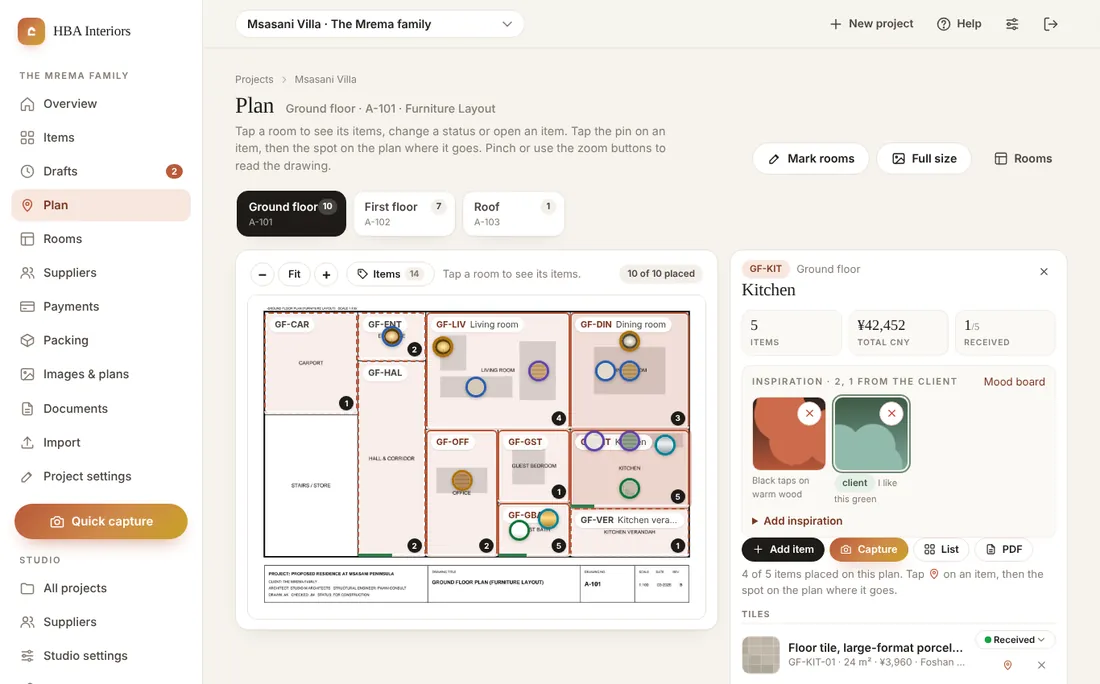
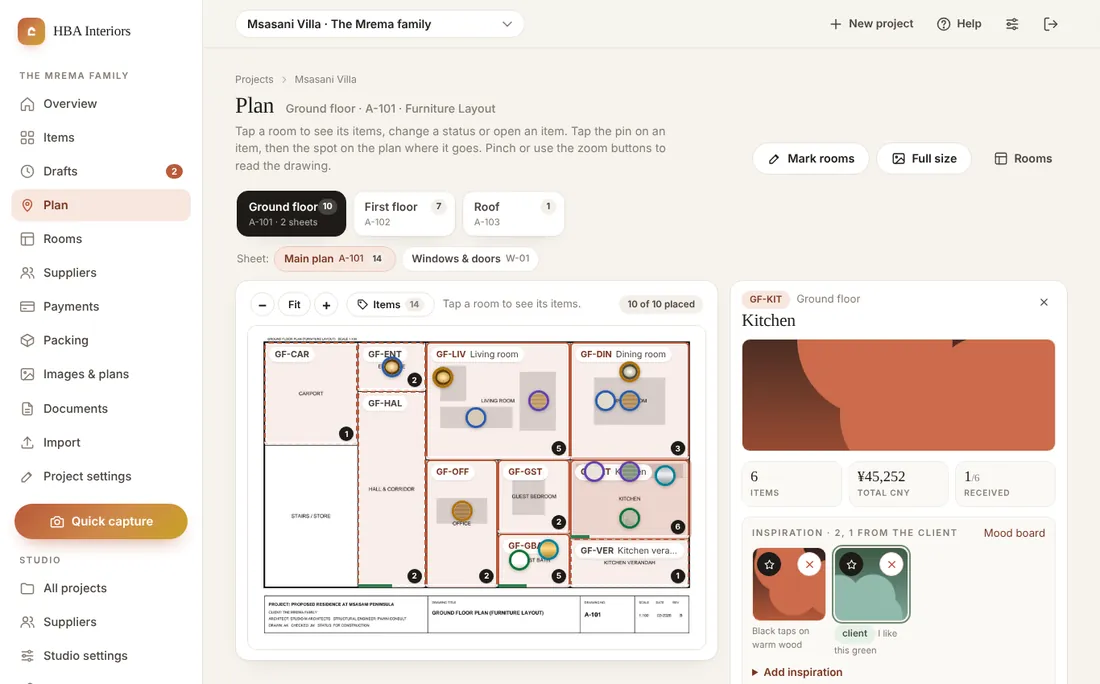
Room covers: a starred inspiration picture (or the newest) stands for each room
A room's inspiration pictures now give it a cover: the one starred as the
cover (MoodTag.is_cover, a column added by db.COLUMN_MIGRATIONS), else the
newest picture the designer added, else the client's newest
(services.room_cover / room_covers). It shows as a thumbnail on the room's
card on the Rooms page and as a strip when the card is open, as a banner
at the top of the room panel on the plan (the client's panel too) and as a
thumbnail in the plan's room list. The star sits top-left on every picture
of a room's inspiration strip and of the mood board; pressing it on the
cover lets the newest picture stand in again. POST
/p/<id>/images/<image_id>/cover toggles it and clears the room's other
stars; moving a picture to another room or deleting its room clears it; a
whole-house picture is never a room's cover. The star never reaches the
client's link.

Help: the Rooms, Images and Plan tips and the Rooms section of the guide;
four help pictures regenerated (rooms, plan-browse, phone-plan,
client-plan). README and CLAUDE.md updated; the suite covers the fallback,
the star, the pages, the client's view, moving and the whole-house case.

Claude-Session: https://claude.ai/code/session_014dEEg4ZJoqKU3XFXeCpon9

diff --git a/ffe/app/templates/help.html b/ffe/app/templates/help.html
@@ -293,7 +293,7 @@
     <li><b>Floor</b>: pick it from the list, so the plan and the rooms find each other. The floor list above is where floors are added, renamed, reordered or merged.</li>
     <li><b>Floor area</b> and <b>wall tile area</b> in m² are optional and help you work out tile quantities. <b>Notes</b> are for the installers (finish level, access).</li>
     <li>Open an entry to edit it: change the code, name, floor, kind or order and press <b>Save</b>. From there: <b>Items</b>, <b>Checklist PDF</b>, <b>Labels</b>, <b>On the plan</b>.</li>
-    <li><b>Inspiration.</b> Each entry carries a strip of mood-board pictures for that room: what the client likes, in their words. Add yours with a photo or a web link and a caption; the client adds theirs through their link (marked "client"). The same strip shows on the room's panel on the plan and on its item list, so the taste sits next to what is being bought. The Images &amp; plans page lists them under the mood board, whole house first, then room by room, and a picture can be moved to another room there.</li>
+    <li><b>Inspiration.</b> Each entry carries a strip of mood-board pictures for that room: what the client likes, in their words. Add yours with a photo or a web link and a caption; the client adds theirs through their link (marked "client"). The same strip shows on the room's panel on the plan and on its item list, so the taste sits next to what is being bought. The Images &amp; plans page lists them under the mood board, whole house first, then room by room, and a picture can be moved to another room there. A <b>star</b> on one of a room's pictures makes it the room's <b>cover</b>: a thumbnail on the room's card here and a strip when the card is open, a banner at the top of its panel on the plan and a thumbnail in the plan's room list, for you and for the client. Without a star the newest picture stands in, yours before the client's; press the star again and the newest stands in once more.</li>
     <li><b>Deleting</b> an entry keeps its items and boxes; they lose their room and show under "Not in a room or area" until you file them again. Its inspiration pictures stay, as whole-house ones.</li>
   </ul>
   {{ shot('rooms-entry', 'An entry opened on the Rooms page: once it is marked on the plan, it shows zoomed in with its item dots, above its details and buttons.') }}

diff --git a/ffe/app/templates/plan/_inspiration.html b/ffe/app/templates/plan/_inspiration.html
@@ -11,8 +11,9 @@
   {% if moods %}
   <div class="gallery insp-gallery">
     {% for im in moods %}
-    <div class="g{{ ' client' if im.by_client }}">
+    <div class="g{{ ' client' if im.by_client }}{{ ' cover' if im.is_cover }}">
       <a href="/media/{{ im.file_key }}" target="_blank" title="Open full size"><img src="/media/{{ im.file_key }}" alt="{{ im.caption }}" loading="lazy"></a>
+      {% if not ro and room %}<form method="post" action="/p/{{ p.id }}/images/{{ im.id }}/cover" class="star"><input type="hidden" name="next" value="{{ here }}"><button class="btn sm icon{{ ' on' if im.is_cover }}" title="{{ 'The cover of this ' ~ ('area' if room.is_area else 'room') ~ '. Press again and the newest picture stands in.' if im.is_cover else 'Use as the cover of this ' ~ ('area' if room.is_area else 'room') }}" aria-label="{{ 'The cover' if im.is_cover else 'Use as cover' }}"><svg class="ic"><use href="#i-star"/></svg></button></form>{% endif %}
       {% if not ro %}<form method="post" action="/p/{{ p.id }}/images/{{ im.id }}/delete" data-confirm="Delete this picture? It comes off the {{ room.name if room else 'house' }} and the PDFs."><input type="hidden" name="next" value="{{ here }}"><button class="btn sm icon danger" title="Delete picture" aria-label="Delete picture"><svg class="ic"><use href="#i-x"/></svg></button></form>
       {% elif im.by_client %}<form method="post" action="/c/{{ token }}/inspiration/{{ im.id }}/delete" data-confirm="Remove your picture? The designer will no longer see it."><input type="hidden" name="room_id" value="{{ room.id if room else '' }}"><button class="btn sm icon danger" title="Remove my picture" aria-label="Remove my picture"><svg class="ic"><use href="#i-x"/></svg></button></form>{% endif %}
       <div class="cap">{% if im.by_client %}<span class="pill sage">{{ 'you' if ro else 'client' }}</span> {% endif %}{{ im.caption }}</div>

diff --git a/ffe/app/templates/projects/images.html b/ffe/app/templates/projects/images.html
@@ -121,7 +121,8 @@
   <div class="sub-title mt"><span>{{ grp_room.label if grp_room else 'Whole house' }}</span><span class="muted small">{{ grp|length }} picture{{ 's' if grp|length != 1 }}{% if grp|selectattr('by_client')|list %} · {{ grp|selectattr('by_client')|list|length }} from the client{% endif %}</span></div>
   <div class="gallery">
   {% for im in grp %}
-    <div class="g{{ ' client' if im.by_client }}" id="img-{{ im.id }}"><img src="/media/{{ im.file_key }}" alt="{{ im.caption }}" data-full="/media/{{ im.file_key }}" data-caption="{{ im.caption or (grp_room.label if grp_room else 'Whole house') }}">
+    <div class="g{{ ' client' if im.by_client }}{{ ' cover' if im.is_cover }}" id="img-{{ im.id }}"><img src="/media/{{ im.file_key }}" alt="{{ im.caption }}" data-full="/media/{{ im.file_key }}" data-caption="{{ im.caption or (grp_room.label if grp_room else 'Whole house') }}">
+      {% if grp_room %}<form method="post" action="/p/{{ p.id }}/images/{{ im.id }}/cover" class="star"><input type="hidden" name="next" value="/p/{{ p.id }}/images#img-{{ im.id }}"><button class="btn sm icon{{ ' on' if im.is_cover }}" title="{{ 'The cover of ' ~ grp_room.name ~ '. Press again and its newest picture stands in.' if im.is_cover else 'Use as the cover of ' ~ grp_room.name }}" aria-label="{{ 'The cover' if im.is_cover else 'Use as cover' }}"><svg class="ic"><use href="#i-star"/></svg></button></form>{% endif %}
       <form method="post" action="/p/{{ p.id }}/images/{{ im.id }}/delete" data-confirm="Delete this picture? It comes off the project and its PDFs."><button class="btn sm icon danger" title="Delete picture" aria-label="Delete picture"><svg class="ic"><use href="#i-x"/></svg></button></form>
       <form method="post" action="/p/{{ p.id }}/images/{{ im.id }}" class="tag">
         {% if im.by_client %}<span class="pill sage">from the client</span>{% endif %}

diff --git a/ffe/app/templates/rooms.html b/ffe/app/templates/rooms.html
@@ -80,13 +80,15 @@
 {% if r.is_area and (loop.first or not loop.previtem.is_area) %}<div class="sub-title"><span>Areas</span><span class="muted small">zones with a code, items and boxes, but not rooms</span></div>{% endif %}
 {% set st = stats.get(r.id) %}
 <details class="card tight{{ ' area' if r.is_area }}" id="room-{{ r.id }}">
+  {% set cv = covers.get(r.id) if covers is defined else none %}
   <summary>
-    {{ room_pill(r) }}
+    {{ room_pill(r) }}{% if cv %}<img class="rthumb" src="/media/{{ cv.file_key }}" alt="" loading="lazy">{% endif %}
     <span class="b">{{ r.name }}</span>{% if r.is_area %}<span class="muted small">Area</span>{% endif %}{% if r.floor %}<span class="muted small">{{ r.floor }}</span>{% endif %}
     <span class="sp"></span>
     {% set n = st.count if st else 0 %}<span class="pill">{{ n }} item{{ 's' if n != 1 }}<span class="hide-m">· ¥{{ (st.total if st else 0)|money }}{% if st and st.received %} · {{ st.received }} recv{% endif %}</span></span>
   </summary>
   <div class="small muted hide-d mt">¥{{ (st.total if st else 0)|money }} ordered{% if st and st.received %} · {{ st.received }} received{% endif %}</div>
+  {% if cv %}<div class="rcover mt"><img src="/media/{{ cv.file_key }}" alt="{{ cv.caption }}" data-full="/media/{{ cv.file_key }}" data-caption="{{ r.name }}{% if cv.caption %} · {{ cv.caption }}{% endif %}" loading="lazy"></div>{% endif %}
   {% set zoom = zooms.get(r.id) %}{% if zoom %}<div class="mt">{% set room = r %}{% set cls = 'sm' %}{% include "plan/_zoom.html" %}</div>{% endif %}
   <div class="mt">{% with room = r, moods = moods_by_room.get(r.id, []), here = '/p/' ~ p.id ~ '/rooms#room-' ~ r.id %}{% include "plan/_inspiration.html" %}{% endwith %}</div>
   <form method="post" action="/p/{{ p.id }}/rooms/{{ r.id }}" class="mt">

diff --git a/ffe/app/static/app.css b/ffe/app/static/app.css
@@ -432,6 +432,17 @@ details summary{cursor:pointer;color:var(--ink);font-weight:600;margin:0}
 .insp .insp-gallery .g.client img{outline:2px solid var(--sage);outline-offset:1px}
 .insp details.insp-add{margin-top:8px}.insp details.insp-add summary{font-size:.84rem;font-weight:600;cursor:pointer;color:var(--accent-ink)}
 .gallery .g.client img{outline:2px solid var(--sage);outline-offset:1px}
+/* room covers: the inspiration picture starred for a room, else its newest (services.room_cover): a thumbnail on the room's
+   card and in the plan's room list, a strip in the open card, a banner at the top of the room panel; the star sets it */
+.rthumb{width:40px;height:40px;border-radius:10px;object-fit:cover;flex:none;border:1px solid var(--line);background:var(--surface-2)}
+.rthumb.sm{width:28px;height:28px;border-radius:8px}
+.rcover img{display:block;width:100%;height:150px;object-fit:cover;border-radius:var(--r-sm);border:1px solid var(--line)}
+.ph-cover{margin-top:10px}.ph-cover img{display:block;width:100%;height:140px;object-fit:cover;border-radius:var(--r-sm);border:1px solid var(--line)}
+.gallery form.star{left:6px;right:auto}
+.gallery form.star .btn.on{color:#fff;background:var(--gold);border-color:var(--gold)}
+.gallery form.star .btn.on .ic{fill:currentColor}
+.gallery .g.cover img{outline:2px solid var(--gold);outline-offset:1px}
+@media(max-width:700px){.rcover img{height:120px}.ph-cover img{height:110px}}
 .gallery .g form.tag .btn{justify-self:start}
 .gallery.plans .g .cap.role{color:var(--ink-2);display:flex;align-items:center;gap:6px;flex-wrap:wrap;min-height:22px}
 /* Images & plans: a plan filed as its own floor before layers existed ("Ground Electrical") gets a one-press fix */

diff --git a/ffe/app/templates/plan/_intro.html b/ffe/app/templates/plan/_intro.html
@@ -21,7 +21,7 @@
   <div class="eyebrow">{{ (plan.floor|floor_title) if (plan.floor and floor_rooms) else 'On this plan' }}</div>
   <div class="plan-dir">
     {% for r in dir_rooms|rejectattr('is_area')|list + dir_rooms|selectattr('is_area')|list %}{% set st = stats.get(r.id) %}
-    <a href="{{ base }}?plan={{ plan.id }}&amp;room={{ r.id }}{{ anchor }}" data-room="{{ r.id }}"{% if r.id not in placed %} class="unplaced"{% endif %}><span class="pill {{ 'area' if r.is_area else 'accent' }}">{{ r.code }}</span><span class="nm">{{ r.name }}{% if r.is_area %} <span class="muted small">· area</span>{% endif %}{% if r.id not in placed and not ro and not ref %} <span class="muted small">· not placed</span>{% endif %}</span><span class="n">{{ st.count if st else 0 }}</span></a>
+    <a href="{{ base }}?plan={{ plan.id }}&amp;room={{ r.id }}{{ anchor }}" data-room="{{ r.id }}"{% if r.id not in placed %} class="unplaced"{% endif %}>{% set cv = covers.get(r.id) if covers is defined else none %}{% if cv %}<img class="rthumb sm" src="/media/{{ cv.file_key }}" alt="" loading="lazy">{% endif %}<span class="pill {{ 'area' if r.is_area else 'accent' }}">{{ r.code }}</span><span class="nm">{{ r.name }}{% if r.is_area %} <span class="muted small">· area</span>{% endif %}{% if r.id not in placed and not ro and not ref %} <span class="muted small">· not placed</span>{% endif %}</span><span class="n">{{ st.count if st else 0 }}</span></a>
     {% endfor %}
   </div>
   {% endif %}

diff --git a/ffe/app/templates/base.html b/ffe/app/templates/base.html
@@ -33,6 +33,7 @@
   <symbol id="i-link" viewBox="0 0 24 24"><path d="M10 14a5 5 0 0 0 7 0l3-3a5 5 0 0 0-7-7l-1 1"/><path d="M14 10a5 5 0 0 0-7 0l-3 3a5 5 0 0 0 7 7l1-1"/></symbol>
   <symbol id="i-trash" viewBox="0 0 24 24"><path d="M4 7h16"/><path d="M10 11v6"/><path d="M14 11v6"/><path d="M6 7l1 13h10l1-13"/><path d="M9 7V4h6v3"/></symbol>
   <symbol id="i-check" viewBox="0 0 24 24"><path d="M5 13l4 4L19 7"/></symbol>
+  <symbol id="i-star" viewBox="0 0 24 24"><path d="M12 3.4l2.7 5.6 6.1.9-4.4 4.3 1 6.1L12 17.4l-5.4 2.9 1-6.1-4.4-4.3 6.1-.9z"/></symbol>
   <symbol id="i-x" viewBox="0 0 24 24"><path d="M6 6l12 12"/><path d="M18 6L6 18"/></symbol>
   <symbol id="i-edit" viewBox="0 0 24 24"><path d="M4 20h4l10-10-4-4L4 16z"/><path d="M13 7l4 4"/></symbol>
   <symbol id="i-clock" viewBox="0 0 24 24"><circle cx="12" cy="12" r="9"/><path d="M12 7v5l3 2"/></symbol>

diff --git a/ffe/app/templates/plan/_room.html b/ffe/app/templates/plan/_room.html
@@ -12,6 +12,7 @@
     </div>
     <a class="btn ghost sm icon close" href="{{ base }}{% if plan %}?plan={{ plan.id }}{% endif %}{{ anchor }}" aria-label="Close" title="Close"><svg class="ic"><use href="#i-x"/></svg></a>
   </div>
+  {% if cover is defined and cover %}<div class="ph-cover"><img src="/media/{{ cover.file_key }}" alt="{{ cover.caption }}" data-full="/media/{{ cover.file_key }}" data-caption="{{ room.name }}{% if cover.caption %} · {{ cover.caption }}{% endif %}"></div>{% endif %}
   <div class="ph-stats">
     <div><div class="v">{{ n }}</div><div class="l">Item{{ 's' if n != 1 }}</div></div>
     {% if ro %}<div><div class="v">${{ ((st.total if st else 0) / usd)|money }}</div><div class="l">Total USD</div></div>

diff --git a/ffe/app/help_tips.py b/ffe/app/help_tips.py
@@ -44,7 +44,7 @@ TIPS = {
         what="The places of the house, each with a code. Codes go on every item, box and label, so a delivery lands where it will be installed.",
         steps=["The <b>Floors</b> card at the top is the list every Floor dropdown offers. <b>Add floor</b> for a new one (a floor of the house, or a separate area such as the staff quarters); rename, reorder with the arrows, <b>Merge into</b> another floor (everything on it moves, the name goes), or delete an empty one.",
                "Type a <b>code</b> (GF-KIT), a <b>name</b> (Kitchen) and pick the <b>floor</b> (or <b>+ New floor…</b>). Leave <b>Kind</b> on Auto or pick Room / Area. Press <b>Add</b>.",
-               "Open an entry to edit it, print its <b>Checklist PDF</b> or <b>Labels</b>, or jump to it on the plan. Its <b>Inspiration</b> strip holds the pictures of what the client likes for that room; add yours with a photo or a web link.",
+               "Open an entry to edit it, print its <b>Checklist PDF</b> or <b>Labels</b>, or jump to it on the plan. Its <b>Inspiration</b> strip holds the pictures of what the client likes for that room; add yours with a photo or a web link. Press the <b>star</b> on one of them to make it the room's <b>cover</b>: the picture on the card here, at the top of the room's panel on the plan and in the plan's room list. Without a star the newest picture stands in.",
                "After an Excel import, press <b>Sort rooms &amp; areas by name</b> once: entrance, corridors, stairs, balconies and the carport become areas."],
         tips=["A room is a space you furnish; an area is a zone that still gets items. Both work the same way; they are only listed and counted apart.",
               "A plan and its rooms find each other through the floor: pick the same one from the list on both.",
@@ -56,7 +56,7 @@ TIPS = {
                "For a PDF you then <b>pick the pages</b>: the plan pages arrive ticked with floor, sheet and what they show filled in from the title block.",
                "Give every plan its <b>floor</b> and what it <b>shows</b>: <b>Main plan</b> for the general floor plan of the floor; Furniture layout, Electrical, Plumbing, Ceiling or Flooring for the other plans of that floor; <b>Windows &amp; doors</b> for a reference sheet of drawings (the list is edited under <b>Studio settings</b>). Press <b>Save</b> on it. Then open the plan and <b>mark rooms</b> on the main plan.",
                "Under each plan the page says what it is: <b>Main plan</b> of its floor or a <b>Layer</b> of it. A plan from before layers that was filed as its own floor (\"Ground Electrical\") gets a yellow note: one press makes it a layer of that floor.",
-               "<b>Add images</b> uploads the cover and the mood board; a web link works too. A mood-board picture <b>for one room</b> is that room's inspiration: it shows on the room's panel, the Rooms page, its item list and the client's link. The mood board lists the whole house first, then each room; a picture can be moved to another room from there."],
+               "<b>Add images</b> uploads the cover and the mood board; a web link works too. A mood-board picture <b>for one room</b> is that room's inspiration: it shows on the room's panel, the Rooms page, its item list and the client's link. The mood board lists the whole house first, then each room; a picture can be moved to another room from there. The <b>star</b> on a room's picture makes it that room's cover (the Rooms page, the room panel, the plan's room list)."],
         tips=["Drawings are a reference only: rooms and items are never created from them.",
               "Floor plans keep more pixels than photos so the room names stay readable. Tap any picture here to open it full size, with zoom."]),
     "pdf_pages": dict(
@@ -71,7 +71,7 @@ TIPS = {
     "plan": dict(
         title="The plan", anchor="plan",
         what="Browse and update the house room by room, straight on the drawing.",
-        steps=["<b>Tap a room</b>: its items come up beside the plan (in a sheet at the bottom on a phone), under its <b>Inspiration</b> strip: the pictures of what the client likes for that room, yours and theirs, with <b>Add inspiration</b> for a photo or a web link.",
+        steps=["<b>Tap a room</b>: its items come up beside the plan (in a sheet at the bottom on a phone), under its <b>Inspiration</b> strip: the pictures of what the client likes for that room, yours and theirs, with <b>Add inspiration</b> for a photo or a web link. The room's <b>cover</b> (the starred picture, else the newest) sits at the top of the panel.",
                "Change a <b>status</b> there, press <b>Add item</b> or <b>Capture</b> for that room, or open an item.",
                "To mark where an item goes, tap the <b>pin</b> on the item, then the spot on the drawing. Drag a dot to move it.",
                "Switch floors with the tabs: one per floor of the list on the Rooms page, in that order. A floor with no plan yet has a dashed tab that lists its rooms and areas, with a button to add its plan. Zoom with <b>−</b> / <b>Fit</b> / <b>+</b> or pinch.",

diff --git a/ffe/tests/test_flow.py b/ffe/tests/test_flow.py
@@ -1275,6 +1275,24 @@ with TestClient(app) as c:
     h=c2.get(f"/c/{itok}/plan/room/{kit}").text; assert "Like this green" in h and ">you</span>" in h and f'action="/c/{itok}/inspiration/{cpid}/delete"' in h and f'/images/{kpic}/delete' not in h and "Black taps" in h
     h=c.get(f"/p/{pi}/plan/room/{kit}").text; assert "Like this green" in h and ">client</span>" in h and "1 from the client" in h
     assert "1 inspiration picture" in c.get(f"/p/{pi}").text and "1 from the client" in c.get(f"/p/{pi}/images").text
+    # room covers: the designer's newest picture stands in, the star picks one; it shows on the card, in the panel (the client's too) and rings the picture
+    from app.services import room_cover as _rc
+    from app.models import Room as _Rm
+    db=SessionLocal(); pr=db.get(_P,int(pi)); assert _rc(pr,db.get(_Rm,kit)).id==kpic and _rc(pr,db.get(_Rm,liv)) is None; db.close()  # the designer's, although the client's is newer
+    h=c.get(f"/p/{pi}/rooms").text; assert 'class="rthumb" src="/media/' in h and 'class="rcover mt"' in h and f'action="/p/{pi}/images/{kpic}/cover"' in h and f'action="/p/{pi}/images/{cpid}/cover"' in h
+    r=c.post(f"/p/{pi}/images/{cpid}/cover", data={"next":f"/p/{pi}/rooms#room-{kit}"}, follow_redirects=False); assert r.status_code==303 and r.headers["location"]==f"/p/{pi}/rooms#room-{kit}"
+    db=SessionLocal(); pr=db.get(_P,int(pi)); cv=_rc(pr,db.get(_Rm,kit)); assert cv.id==cpid and cv.is_cover and not db.get(ProjectImage,kpic).is_cover; ck=cv.file_key; db.close()
+    h=c.get(f"/p/{pi}/plan/room/{kit}").text; assert f'<div class="ph-cover"><img src="/media/{ck}"' in h and 'class="btn sm icon on"' in h
+    h=c2.get(f"/c/{itok}/plan/room/{kit}").text; assert f'<div class="ph-cover"><img src="/media/{ck}"' in h and "/cover\"" not in h  # the client sees the cover, never the star
+    h=c.get(f"/p/{pi}/images").text; assert 'class="g client cover"' in h and f'action="/p/{pi}/images/{cpid}/cover"' in h
+    c.post(f"/p/{pi}/images/{cpid}/cover", data={"next":""}, follow_redirects=False); db=SessionLocal(); pr=db.get(_P,int(pi)); assert not db.get(ProjectImage,cpid).is_cover and _rc(pr,db.get(_Rm,kit)).id==kpic; db.close()  # the star again: the newest stands in
+    c.post(f"/p/{pi}/images/{kpic}/cover", data={"next":""}, follow_redirects=False)
+    c.post(f"/p/{pi}/images/{kpic}", data={"caption":"Black taps","room_id":str(liv)}, follow_redirects=False); db=SessionLocal(); assert not db.get(ProjectImage,kpic).is_cover; db.close()  # moved to another room: no longer the kitchen's cover
+    c.post(f"/p/{pi}/images/{kpic}", data={"caption":"Black taps","room_id":str(kit)}, follow_redirects=False)
+    db=SessionLocal(); wh=next(im.id for im in db.get(_P,int(pi)).images if im.kind=="mood" and im.room_id is None); db.close()
+    r=c.post(f"/p/{pi}/images/{wh}/cover", data={"next":""}, follow_redirects=False); db=SessionLocal(); assert r.status_code==303 and not db.get(ProjectImage,wh).is_cover; db.close()  # a whole-house picture is never a room's cover
+    assert c.post(f"/p/{pi}/images/999999/cover", data={"next":""}, follow_redirects=False).status_code==404
+    print("room covers ok")
     # nothing chosen, a bad link, the cap per room, someone else's picture, a wrong token
     r=c2.post(f"/c/{itok}/inspiration", data={"room_id":str(kit)}, follow_redirects=False); assert "err=" in r.headers["location"]
     r=c2.post(f"/c/{itok}/inspiration", data={"room_id":str(kit),"url":"https://shop.example/empty"}, follow_redirects=False); assert "err=" in r.headers["location"]

diff --git a/ffe/app/routers/projects.py b/ffe/app/routers/projects.py
@@ -5,7 +5,7 @@ from sqlalchemy.orm import Session
 from ..db import get_db
 from ..models import Project, ProjectImage, Room, Item, DrawingSet, PlanTag, DrawingPage
 from ..common import render, redirect, require_login, get_project, get_settings, ffloat, fint, content_disposition, safe_next
-from ..services import summary, mood_groups, client_moods
+from ..services import summary, mood_groups, client_moods, moods_for
 from .. import storage, webimage, drawings, config, layers
 from urllib.parse import quote
 from ..models import token as new_token
@@ -335,9 +335,30 @@ def edit_image(image_id: int, p: Project = Depends(get_project), db: Session = D
         room = db.get(Room, fint(room_id)) if fint(room_id) else None
         rid = room.id if room is not None and room.project_id == p.id else None
         if rid is not None or im.mood is not None:
-            im.ensure_mood().room_id = rid
+            m = im.ensure_mood()
+            if m.room_id != rid:
+                m.is_cover = False  # a cover belongs to its room: moved away, the room shows its newest picture again
+            m.room_id = rid
     db.commit()
     return redirect(f"/p/{p.id}/images#img-{im.id}")
+
+
+@router.post("/p/{project_id}/images/{image_id}/cover")
+def set_cover(image_id: int, p: Project = Depends(get_project), db: Session = Depends(get_db), next: str = Form("")):
+    """The star on an inspiration picture: make it its room's cover (the Rooms page card, the room panel, the plan's room
+    list), or, pressed on the cover itself, let the room's newest picture stand in again. One cover per room; a picture
+    that is not filed under a room is left alone."""
+    im = db.get(ProjectImage, image_id)
+    if not im or im.project_id != p.id:
+        raise HTTPException(404)
+    if im.kind == "mood" and im.mood is not None and im.mood.room_id is not None:
+        was = im.mood.is_cover
+        for other in moods_for(p, im.mood.room):
+            if other.mood is not None:
+                other.mood.is_cover = False
+        im.mood.is_cover = not was
+        db.commit()
+    return redirect(safe_next(next, f"/p/{p.id}/images#img-{im.id}"))
 
 
 @router.post("/p/{project_id}/images/{image_id}/delete")

diff --git a/ffe/app/routers/plan.py b/ffe/app/routers/plan.py
@@ -14,7 +14,7 @@ from ..db import get_db
 from ..models import Project, Room, Item, ProjectImage, RoomPin, ItemPin
 from urllib.parse import quote
 from ..common import render, redirect, require_login, get_project, fint
-from ..services import summary, moods_for
+from ..services import summary, moods_for, room_cover, room_covers
 from .. import drawings, config, refs
 from .items import sort_items
 
@@ -87,7 +87,7 @@ def stage_ctx(db: Session, p: Project, im: ProjectImage | None, *, sel_room: Roo
     return dict(p=p, plan=im, pins=pins, ipins=ipins, stats=stats, tabs=tabs, layers=layers, borrowed=borrowed, mode=mode, unplaced=unplaced,
                 other_rooms=other_rooms, floor_rooms=floor_rooms, sel_room=sel_room, sel_item=sel_item, base=base, anchor=anchor,
                 floor_sel=drawings.canonical_floor(p, floor_sel) if floor_sel else "", floor_sel_title=drawings.floor_title(floor_sel, p) if floor_sel else "",
-                floor_sel_rooms=floor_sel_rooms)
+                floor_sel_rooms=floor_sel_rooms, covers=room_covers(p))
 
 
 def room_ctx(db: Session, p: Project, room: Room, im: ProjectImage | None, *, sel_item: int | None = None, base: str = "",
@@ -102,7 +102,8 @@ def room_ctx(db: Session, p: Project, room: Room, im: ProjectImage | None, *, se
     ipin_of = {q.item_id: q for q in live_item_pins(im) if q.item_id in ids} if im is not None else {}  # this room's dots only
     here = f"{base}?" + (f"plan={im.id}&" if im is not None else "") + f"room={room.id}{anchor}"
     return dict(p=p, room=room, items=items, st=st, plan=im, pin=pin, ipin_of=ipin_of, here=here, sel_item=sel_item,
-                base=base, anchor=anchor, readonly=readonly, floors=drawings.floor_order(p), moods=moods_for(p, room))
+                base=base, anchor=anchor, readonly=readonly, floors=drawings.floor_order(p), moods=moods_for(p, room),
+                cover=room_cover(p, room))
 
 
 def wants_json(request: Request) -> bool:
